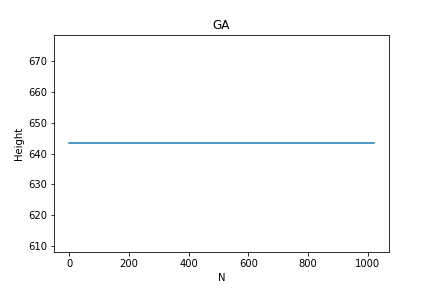
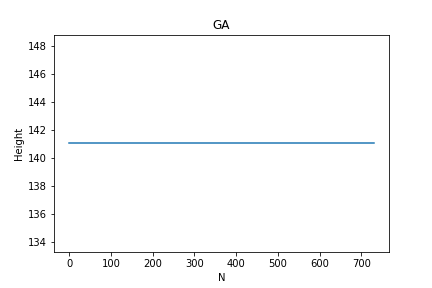
update

diff --git a/jump.py b/jump.py
@@ -147,7 +147,7 @@ def calculation(android, ground, Apply_force_down_t):
         f += -K * x
         #f += -C * android.velocity# 減衰        
         if jump and tmp_t >= Apply_force_down_t:# ジャンプする
-            f += 10*android.weight * G
+            f += 2*android.weight * G
             #print(f'T_J: {tmp_t}\nAFD: {Apply_force_down_t}\n')
             jump = False
             android.n_jump+=1
@@ -208,8 +208,8 @@ def main():
     trial = 0
     while(True):
         y_max = -10000
-        android = Android(150, 100, 40, 40, 'android', 1)# ドロイド君生成，位置(x,y)=(150, 100),大きさ(40*40)
-        Apply_force_down_t = 1# ジャンプするタイミングによって，y_maxを最適化する．y_maxは10回目の頂点の高さ
+        android = Android(150, 300, 40, 40, 'android', 1)# ドロイド君生成，位置(x,y)=(150, 100),大きさ(40*40)
+        Apply_force_down_t = 3# ジャンプするタイミングによって，y_maxを最適化する．y_maxは10回目の頂点の高さ
         
         while(True):
             button()# ボタン処理
@@ -225,7 +225,7 @@ def main():
                 if y_max < tmp_y:
                    y_max = tmp_y 
                 break
-        #y_max
+        # y_max
         trial += 1#試行回数
         data.append(y_max)
         if state == 2 and trial%10==0:
